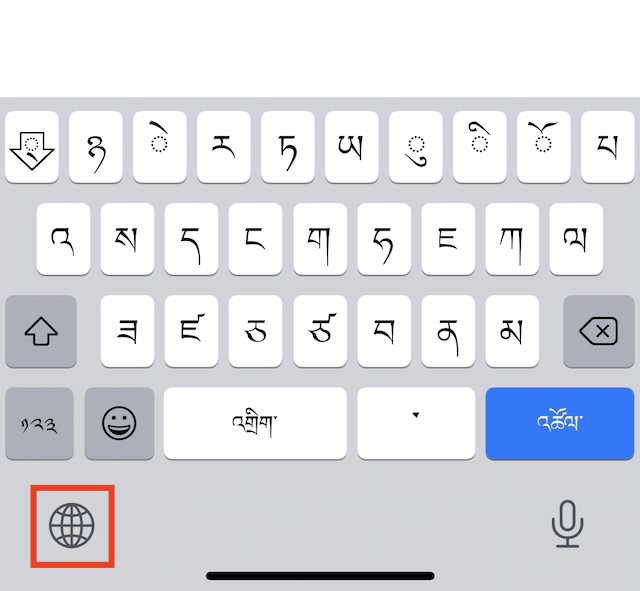
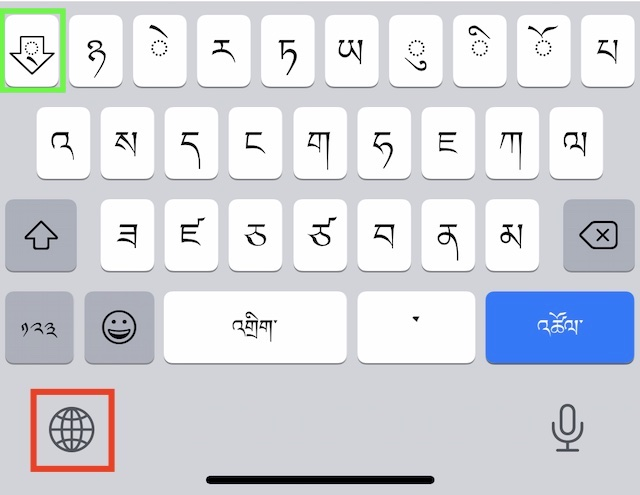
ios keyboards

diff --git a/docs/configuration_ios.md b/docs/configuration_ios.md
@@ -41,4 +41,15 @@ If you plan to work with Sanskrit diacritics, the `ABC - Extended` keyboard allo
 
 ### The on-screen Tibetan keyboard
 
+The `globe`-button (🌐), marked in red in the image above, is used to switch between your different keyboards.
+
+Once the Tibetan keyboard is active, you enter Tibetan by simply pressing the corresponding Tibetan letters (some letters, like ཨ, ཞ, ཤ, ཆ are hidden behind the shift-key!).
+
+Stacking has to done manually pressing the `stack`-key, marked in green in the keyboard-image above: in order to enter རྒྱུ་, you would type: `ར`, `stack`, `ག`, `stack`, `ཡ` and  `ུ` (vowel-sign u).
+
 ### The hardware keyboard (iPad with magic keyboard or similar)
+
+Usage of the hardware keyboard is very similar to macOS.
+
+* Use the globe-key (🌐) to switch between Tibetan-Wylie and other input methods. Alternatively (e.g. for keyboards without the globe-key), you can specify the CAPS-LOCK key to switch between input methods (see `settings`, `hardware-keyboard`).
+* Stacking works according to the EWTS-Rules: Use '+' to force stacking (e.g. for Sanskrit).
